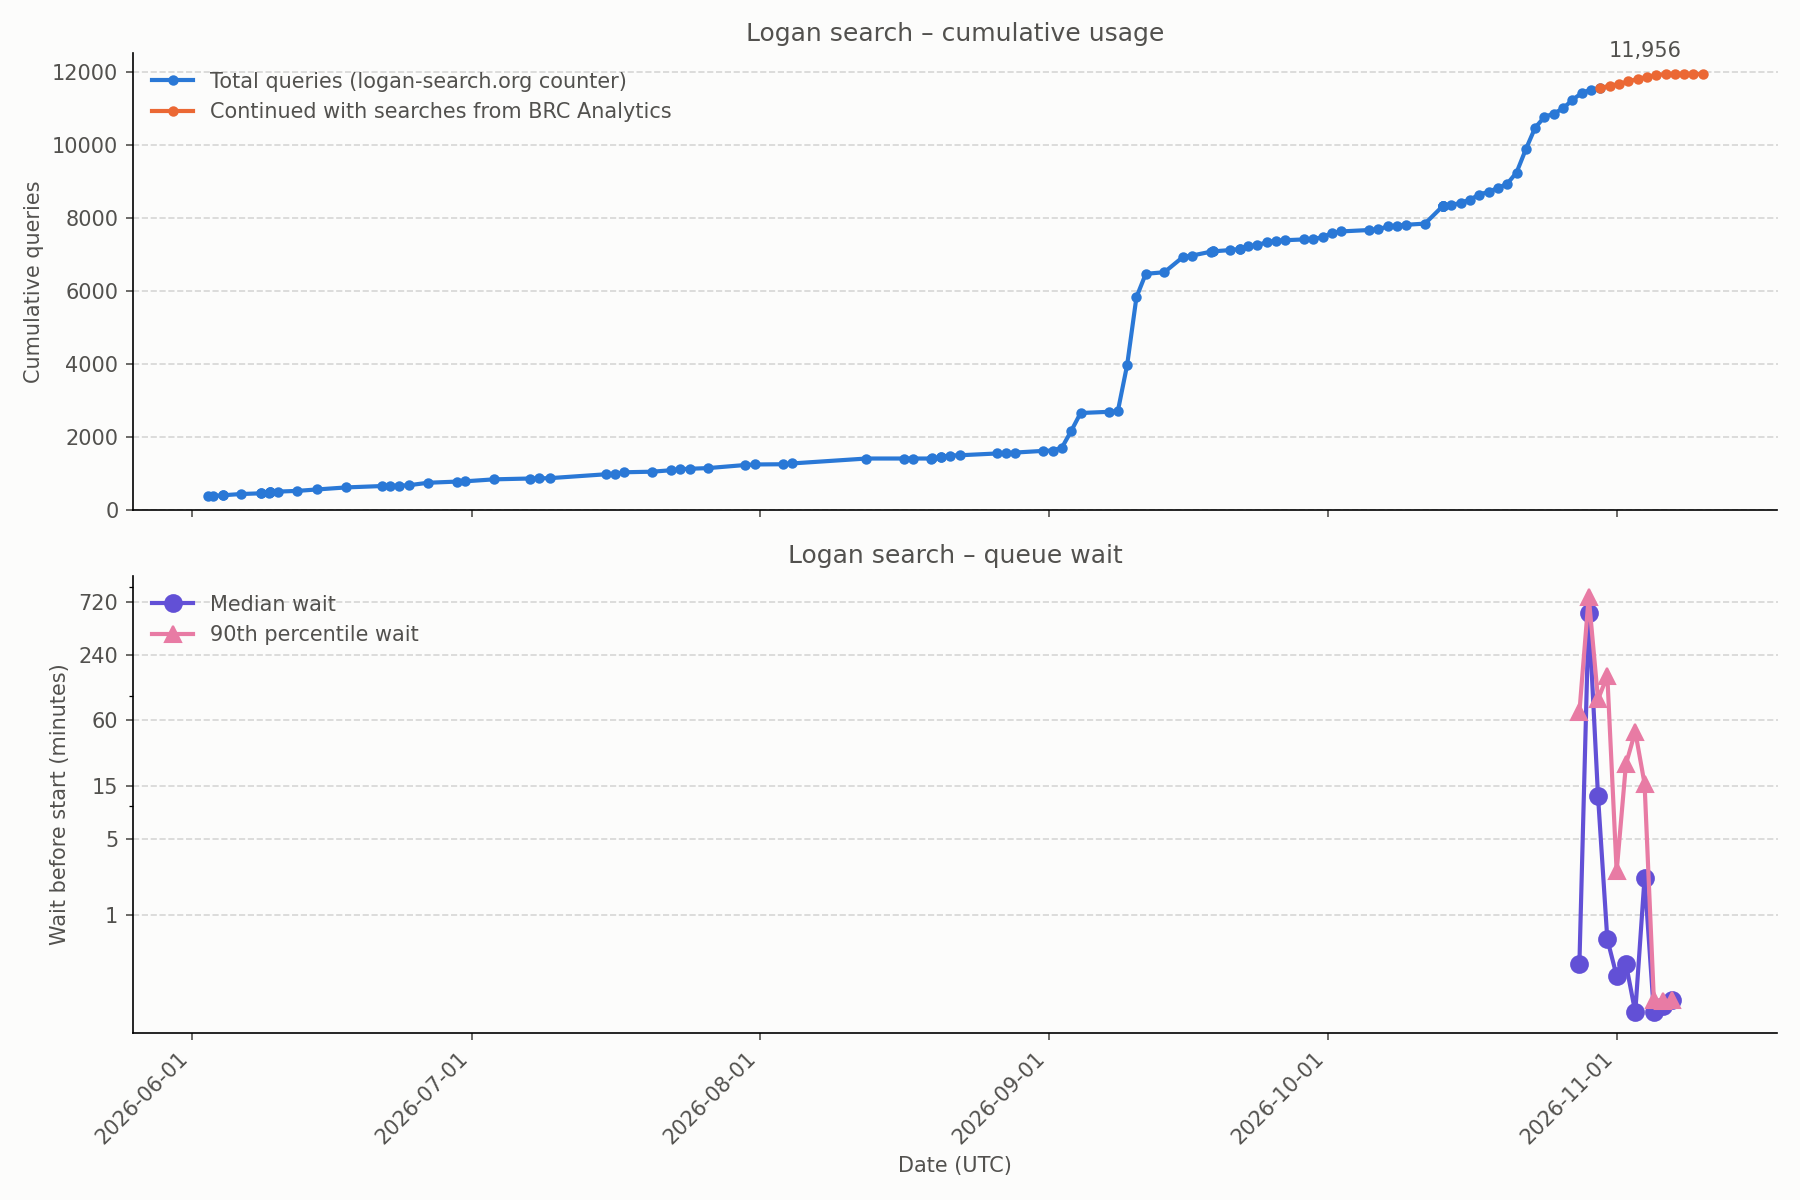
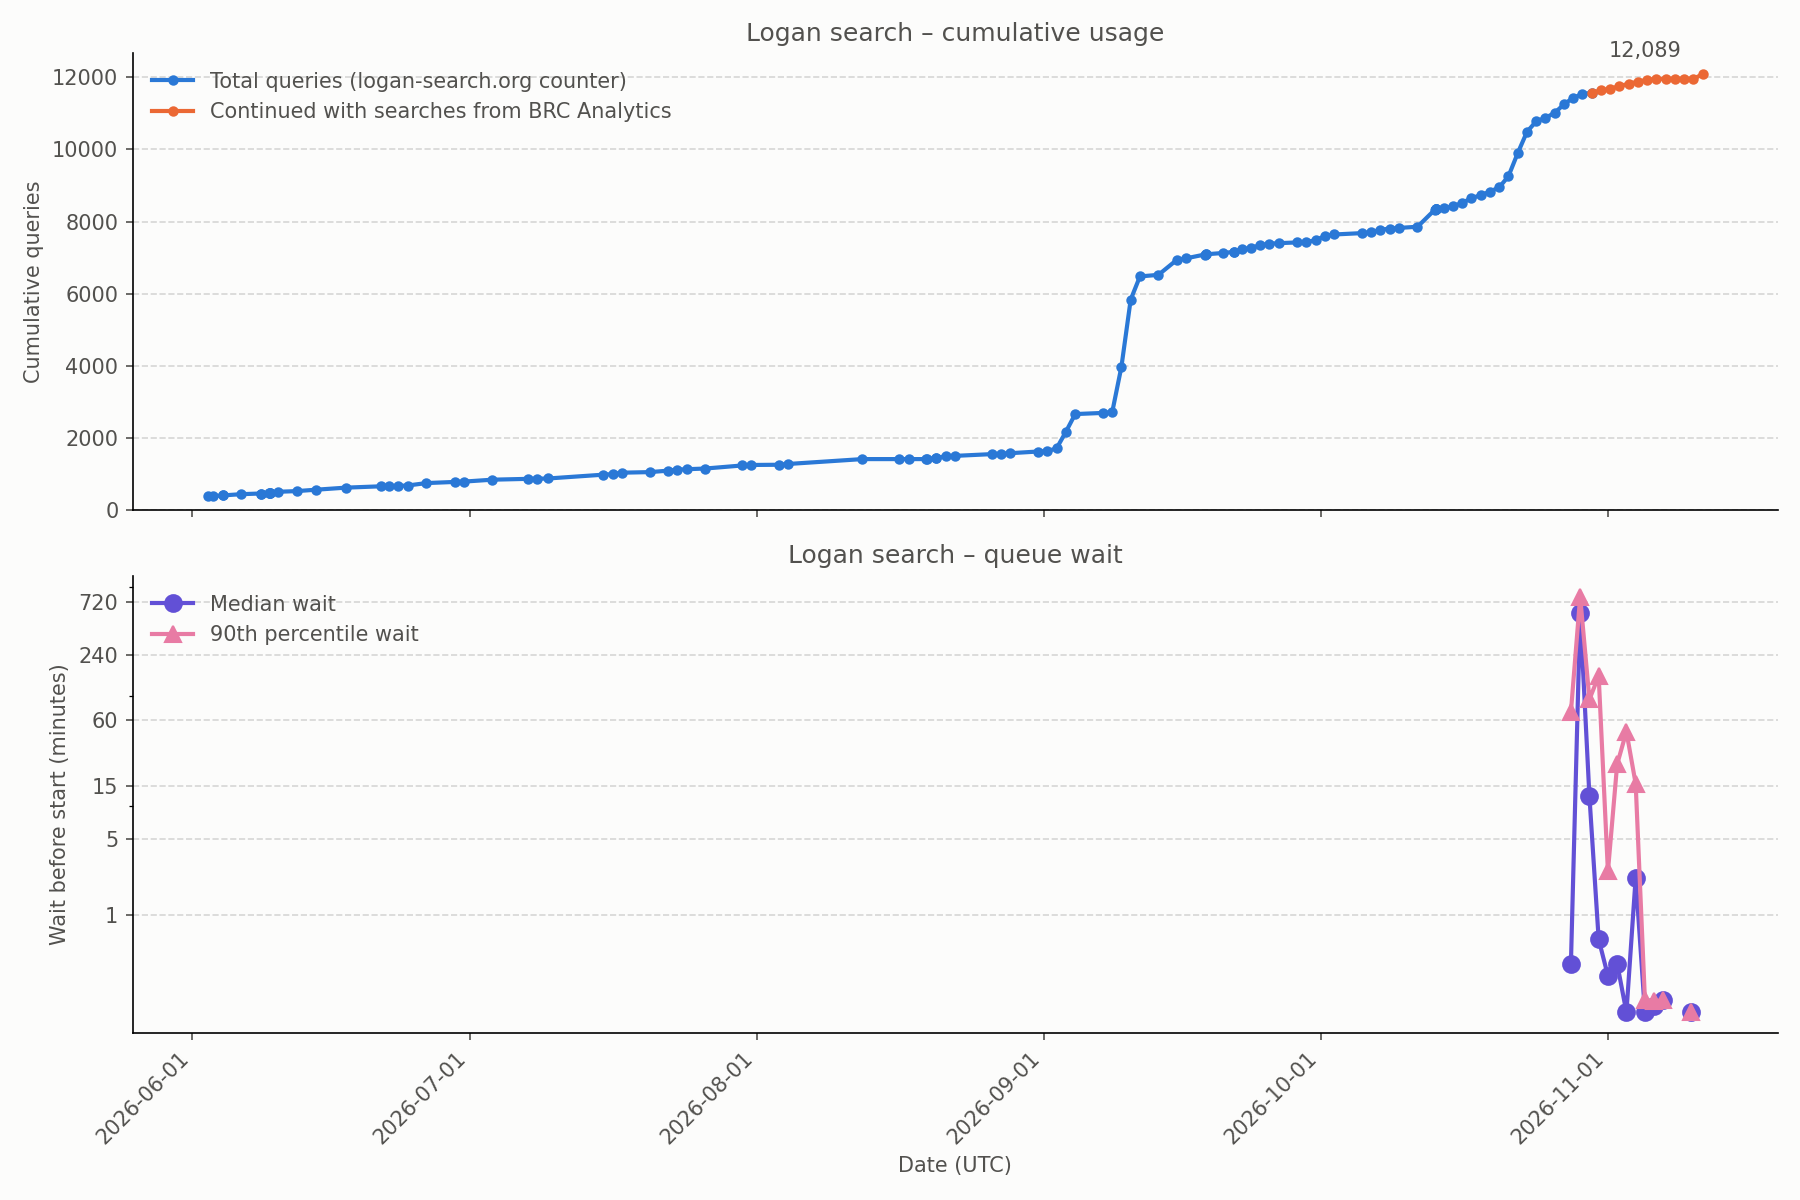
Update statistics 2026-11-11

diff --git a/README.md b/README.md
@@ -5,8 +5,8 @@ Usage statistics of [Logan Search](https://logan-search.org), updated once a day
 ## Yesterday
 
 <!-- daily-queries:start -->
-**Queries on 2026-11-09 (UTC): 0** on the backend (BRC Analytics history).
-The logan-search.org counter increased by 0 between 2026-11-09 06:00 and 2026-11-10 06:00 UTC.
+**Queries on 2026-11-10 (UTC): 128** on the backend (BRC Analytics history).
+The logan-search.org counter increased by 139 between 2026-11-10 06:00 and 2026-11-11 06:00 UTC.
 <!-- daily-queries:end -->
 
 ## Queries made on logan-search.org
